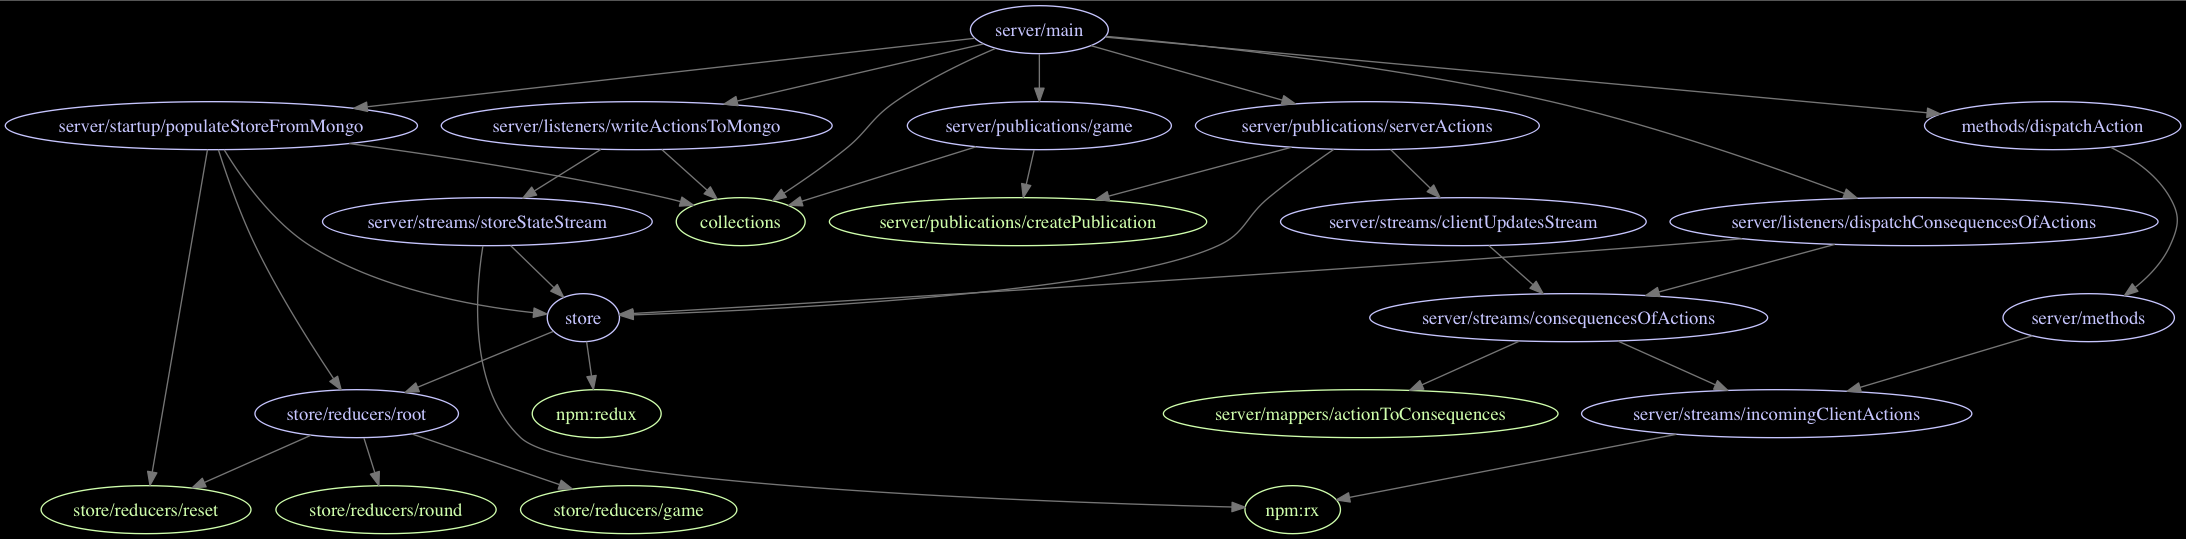
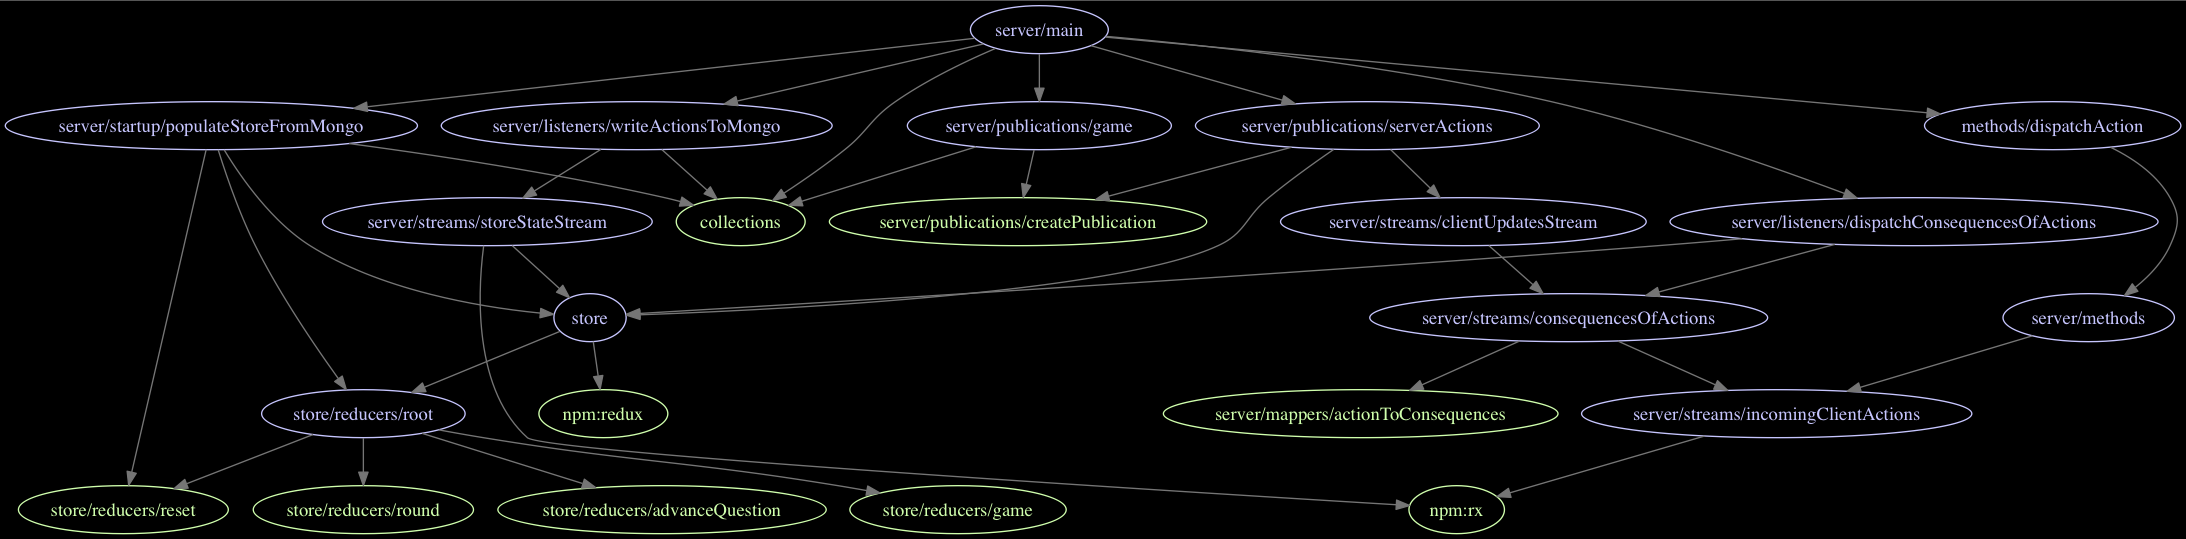
First happy-path tests
Advance Question reducer Ver. 1

diff --git a/spec/imports/store/reducers/root.js b/spec/imports/store/reducers/root.js
@@ -1,0 +1,59 @@
+import { expect } from 'chai'
+import '/spec/specHelper'
+import { Meteor } from 'meteor/meteor'
+import store from '/imports/store/store'
+
+describe('store state machine (server', () => {
+  let state = store.getState()
+  describe('#start', () => {
+    before(() => {
+      expect(Meteor.isClient).to.equal(false)
+      // dispatch no actions
+    })
+
+    describe('game.status', () => {
+      it('"awaiting players"', () => {
+        expect(state).to.have.deep.property('game.status', 'awaiting players')
+      })
+    })
+    describe('round.question', () => {
+      it('null', () => {
+        expect(state).to.have.deep.property('round.question', null)
+      })
+    })
+  })
+
+  describe('#game_begun', () => {
+    before(() => {
+      store.dispatch({ type: 'GAME_BEGIN' })
+      state = store.getState()
+    })
+
+    describe('game.status', () => {
+      it('"game on!"', () => {
+        expect(state).to.have.deep.property('game.status', 'game on!')
+      })
+    })
+    describe('round.question', () => {
+      it('null', () => {
+        expect(state).to.have
+          .deep.property('round.question', null)
+      })
+    })
+  })
+
+  describe('#round_begun', () => {
+    before(() => {
+      store.dispatch({ type: 'ROUND_BEGIN' })
+      state = store.getState()
+    })
+
+    describe('round.question', () => {
+      it('looks like { prompt, choices, correctAnswer }', () => {
+        expect(state).to.have
+          .deep.property('round.question')
+          .that.has.all.keys(['prompt', 'choices', 'correctAnswer'])
+      })
+    })
+  })
+})

diff --git a/imports/store/reducers/root.js b/imports/store/reducers/root.js
@@ -5,6 +5,7 @@ import { createReducer } from 'redux-act'
 import * as Game from './game'
 import * as Round from './round'
 import { resetAction, resetReducer } from './reset'
+import { advanceQuestionAction, advanceQuestionReducer } from './advanceQuestion'
 
 // The magic! We define our state, and delegate control over its parts
 // to corresponding reducers
@@ -20,7 +21,8 @@ export const initialStateTree = fromJS({
 })
 
 let reducer = createDefaultedReducer({
-  [resetAction]: resetReducer
+  [resetAction]: resetReducer,
+  [advanceQuestionAction]: advanceQuestionReducer
 }, stateReducer)
 
 function createDefaultedReducer (actions, defaultReducer) {

diff --git a/imports/store/reducers/advanceQuestion.js b/imports/store/reducers/advanceQuestion.js
@@ -1,0 +1,13 @@
+import { createAction, createReducer } from 'redux-act'
+
+export const advanceQuestionAction = createAction('ADVANCE_QUESTION')
+
+// XXX LEFTOFF refactor so this breaks into multiple actions and works
+// when game.questions is not available
+export const advanceQuestionReducer = createReducer({
+  [advanceQuestionAction]: (state) => {
+    return state
+      .updateIn(['round', 'question'], () => state.getIn(['game', 'questions']).first())
+      .updateIn(['game', 'questions'], qs => qs.skip(1))
+  }
+})

diff --git a/spec/specHelper.js b/spec/specHelper.js
@@ -1,0 +1,6 @@
+import td from 'testdouble'
+import chai from 'chai'
+import chaiImmutable from 'chai-immutable'
+chai.use(chaiImmutable)
+
+td.replace('meteor/meteor', { Meteor: { isClient: false, isServer: true } })
